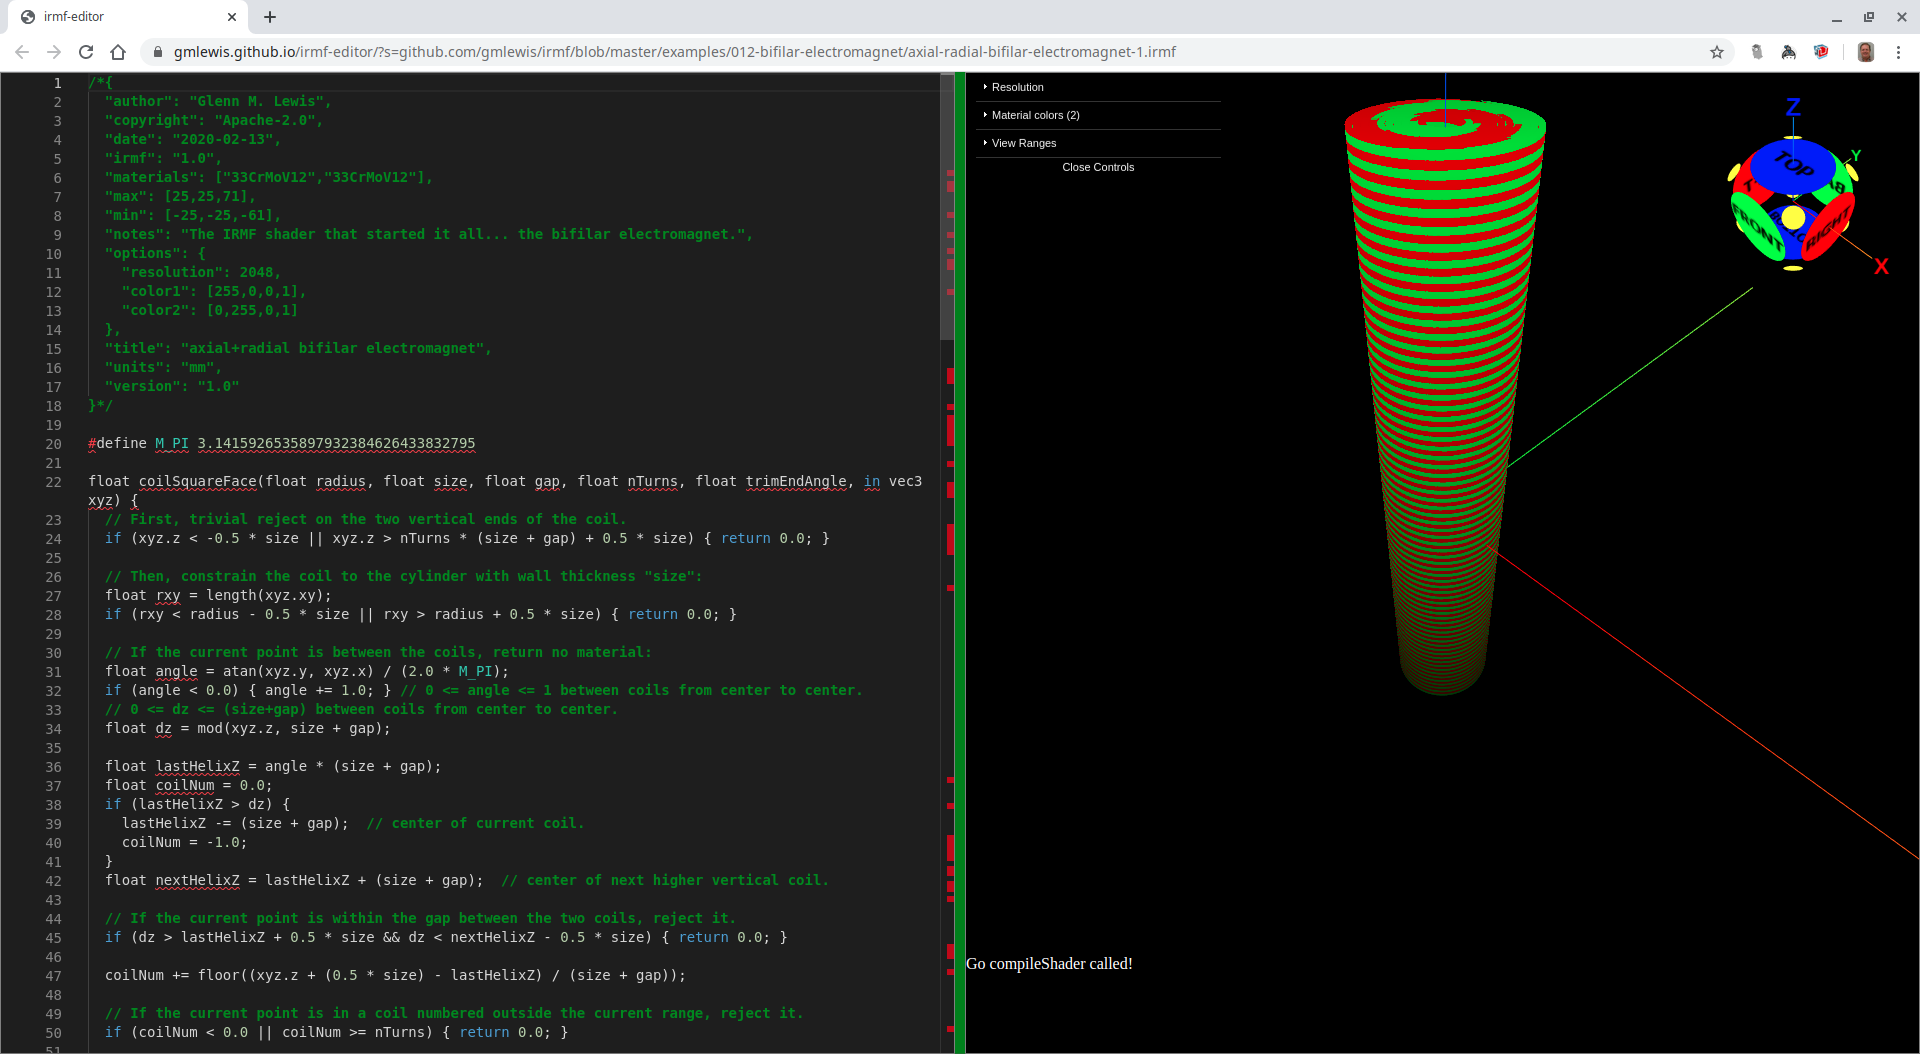
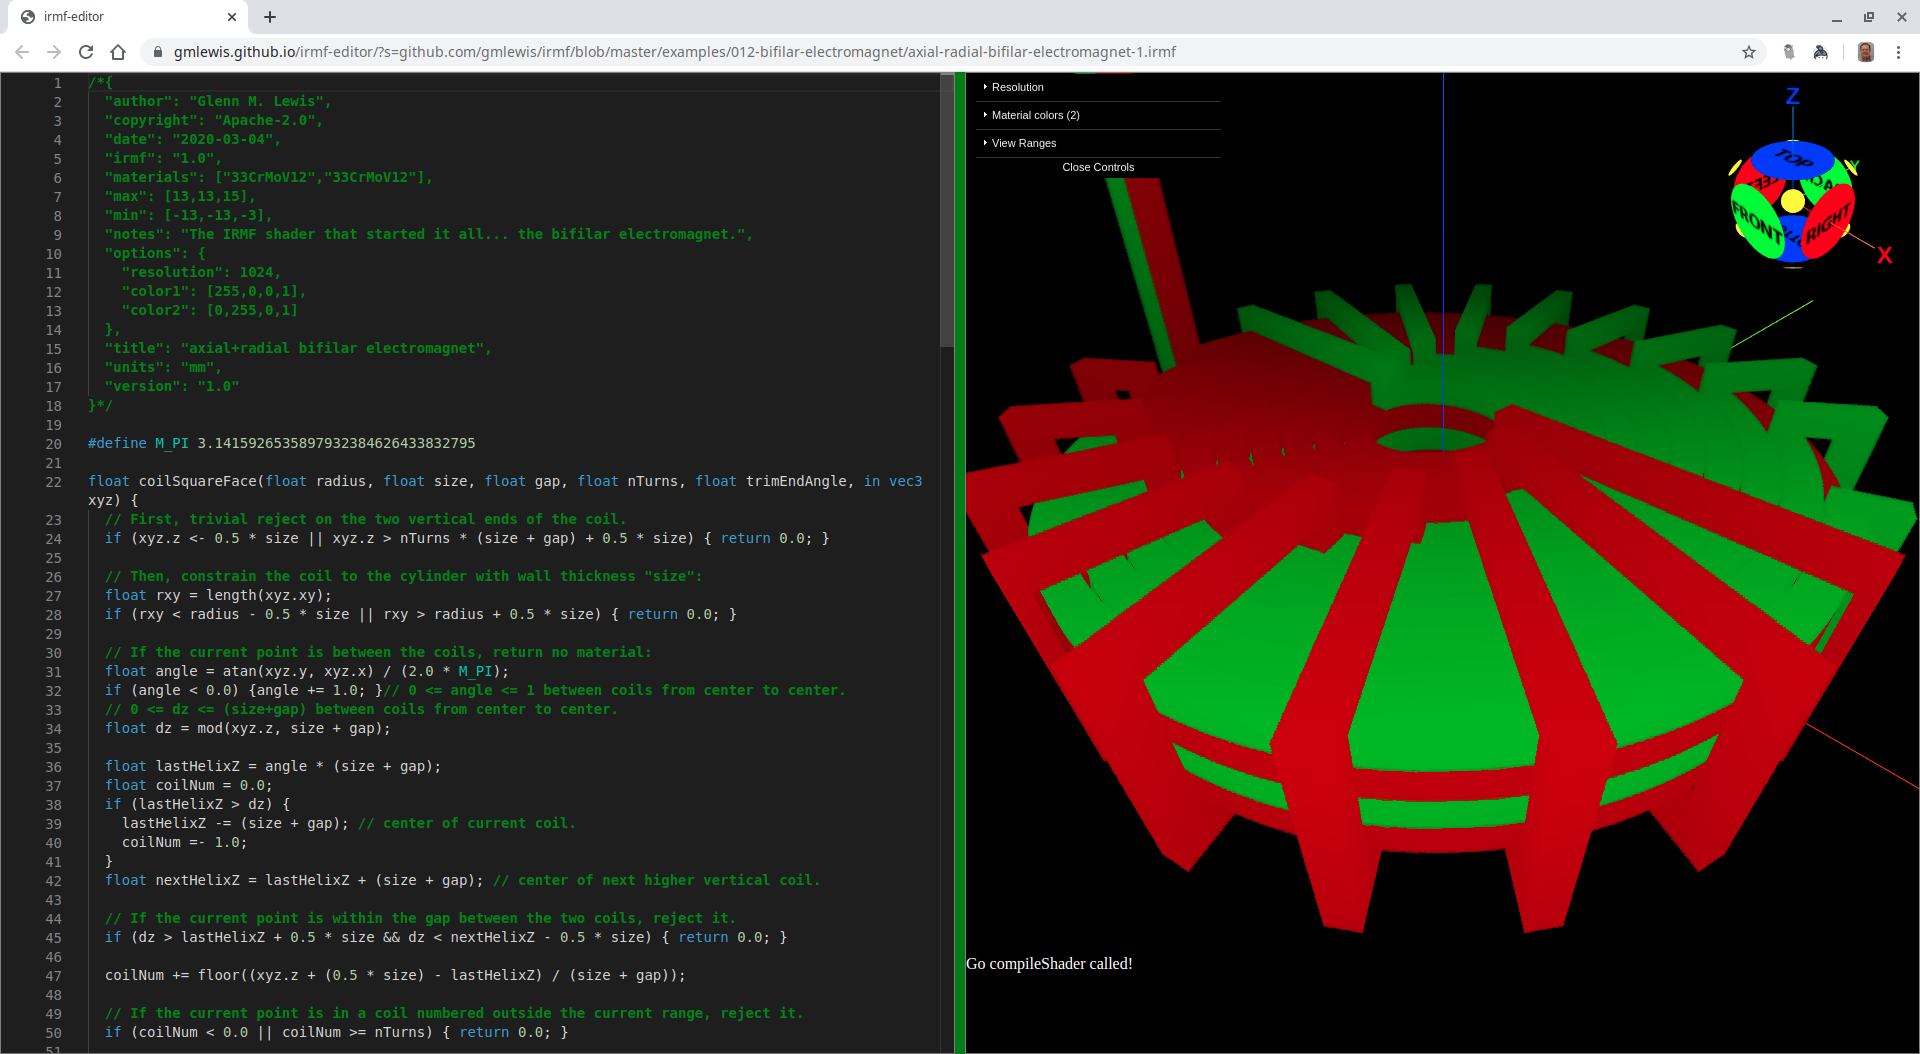
First complete axial+radial bifilar electromagnet

diff --git a/cmd/update-examples/main.go b/cmd/update-examples/main.go
@@ -137,7 +137,7 @@ var licenseText = `-------------------------------------------------------------
 
 # License
 
-Copyright 2020 Glenn M. Lewis. All Rights Reserved.
+Copyright 2019 Glenn M. Lewis. All Rights Reserved.
 
 Licensed under the Apache License, Version 2.0 (the "License");
 you may not use this file except in compliance with the License.

diff --git a/examples/012-bifilar-electromagnet/README.md b/examples/012-bifilar-electromagnet/README.md
@@ -214,21 +214,14 @@ the next pair of windings is completely rotated 180 degrees, then the
 capacitance between the coils will be in both the radial direction _and_ the
 axial direction!
 
-Here is the start of such a design. It is a work-in-progress and still needs
-wiring up at the endpoints.
-
 ![axial-radial-bifilar-electromagnet-1.png](axial-radial-bifilar-electromagnet-1.png)
-
-Here's a single rotation of 10 pairs of coils:
-
-![one revolution](axial-radial-bifilar-one-revolution.png)
 
 ```glsl
 /*{
   irmf: "1.0",
   materials: ["33CrMoV12","33CrMoV12"],
-  max: [25,25,71],
-  min: [-25,-25,-61],
+  max: [13,13,15],
+  min: [-13,-13,-3],
   units: "mm",
 }*/
 
@@ -236,7 +229,7 @@ Here's a single rotation of 10 pairs of coils:
 
 float coilSquareFace(float radius, float size, float gap, float nTurns, float trimEndAngle, in vec3 xyz) {
   // First, trivial reject on the two vertical ends of the coil.
-  if (xyz.z < -0.5 * size || xyz.z > nTurns * (size + gap) + 0.5 * size) { return 0.0; }
+  if (xyz.z <- 0.5 * size || xyz.z > nTurns * (size + gap) + 0.5 * size) { return 0.0; }
   
   // Then, constrain the coil to the cylinder with wall thickness "size":
   float rxy = length(xyz.xy);
@@ -244,154 +237,151 @@ float coilSquareFace(float radius, float size, float gap, float nTurns, float tr
   
   // If the current point is between the coils, return no material:
   float angle = atan(xyz.y, xyz.x) / (2.0 * M_PI);
-  if (angle < 0.0) { angle += 1.0; } // 0 <= angle <= 1 between coils from center to center.
+  if (angle < 0.0) {angle += 1.0; }// 0 <= angle <= 1 between coils from center to center.
   // 0 <= dz <= (size+gap) between coils from center to center.
   float dz = mod(xyz.z, size + gap);
   
   float lastHelixZ = angle * (size + gap);
   float coilNum = 0.0;
   if (lastHelixZ > dz) {
-    lastHelixZ -= (size + gap);  // center of current coil.
-    coilNum = -1.0;
+    lastHelixZ -= (size + gap); // center of current coil.
+    coilNum =- 1.0;
   }
-  float nextHelixZ = lastHelixZ + (size + gap);  // center of next higher vertical coil.
+  float nextHelixZ = lastHelixZ + (size + gap); // center of next higher vertical coil.
   
   // If the current point is within the gap between the two coils, reject it.
   if (dz > lastHelixZ + 0.5 * size && dz < nextHelixZ - 0.5 * size) { return 0.0; }
   
   coilNum += floor((xyz.z + (0.5 * size) - lastHelixZ) / (size + gap));
-
+  
   // If the current point is in a coil numbered outside the current range, reject it.
   if (coilNum < 0.0 || coilNum >= nTurns) { return 0.0; }
-
+  
   // TODO: Incorporate the trimEndAngle.
-
+  
   return 1.0;
 }
 
-float box(vec3 start,vec3 end,float size,in vec3 xyz){
-  vec3 ll=min(start,end)-vec3(.5*size);
-  vec3 ur=max(start,end)+vec3(.5*size);
-  if(any(lessThan(xyz,ll))||any(greaterThan(xyz,ur))){return 0.;}
-  return 1.;
+float box(vec3 start, vec3 end, float size, in vec3 xyz) {
+  vec3 ll = min(start, end) - vec3(0.5 * size);
+  vec3 ur = max(start, end) + vec3(0.5 * size);
+  if (any(lessThan(xyz, ll))|| any(greaterThan(xyz, ur))) { return 0.0; }
+  return 1.0;
 }
 
-mat3 rotAxis(vec3 axis,float a){
+mat3 rotAxis(vec3 axis, float a) {
   // This is from: http://www.neilmendoza.com/glsl-rotation-about-an-arbitrary-axis/
-  float s=sin(a);
-  float c=cos(a);
-  float oc=1.-c;
-  vec3 as=axis*s;
-  mat3 p=mat3(axis.x*axis,axis.y*axis,axis.z*axis);
-  mat3 q=mat3(c,-as.z,as.y,as.z,c,-as.x,-as.y,as.x,c);
-  return p*oc+q;
+  float s = sin(a);
+  float c = cos(a);
+  float oc = 1.0 - c;
+  vec3 as = axis * s;
+  mat3 p = mat3(axis.x * axis, axis.y * axis, axis.z * axis);
+  mat3 q = mat3(c, - as.z, as.y, as.z, c, - as.x, - as.y, as.x, c);
+  return p * oc + q;
 }
 
-mat4 rotZ(float angle){
-  return mat4(rotAxis(vec3(0,0,1),angle));
+mat4 rotZ(float angle) {
+  return mat4(rotAxis(vec3(0, 0, 1), angle));
 }
 
-float wire(vec3 start,vec3 end,float size,in vec3 xyz){
-  vec3 v=end-start;
-  float angle=dot(v,vec3(1,0,0));
-  xyz-=start;
-  xyz=(vec4(xyz,1)*rotZ(angle)).xyz;
-  return box(vec3(0),vec3(length(v),0,0),size,xyz);
+float wire(vec3 start, vec3 end, float size, in vec3 xyz) {
+  vec3 v = end - start;
+  float angle = dot(v, vec3(1, 0, 0));
+  xyz -= start;
+  xyz = (vec4(xyz, 1) * rotZ(angle)).xyz;
+  return box(vec3(0), vec3(length(v), 0, 0), size, xyz);
 }
 
-float coilPlusConnectorWires(int coilNum,int numCoils,float inc,float innerRadius,float connectorRadius,float size,float gap,float nTurns,in vec3 xyz){
-  float radiusOffset=float(coilNum-1);
-  mat4 xfm=mat4(1)*rotZ(radiusOffset*inc);
-  float coilRadius=radiusOffset+innerRadius;
-  float trimEndAngle=2.*inc;
-  if(coilNum==numCoils){
-    trimEndAngle=.5*inc;// Special case to access the exit wire.
-  }else if(coilNum==numCoils-1){
-    trimEndAngle=3.*inc;
-  }
+float coilPlusConnectorWires(int wireNum, int coilNum, int numCoils, float inc, float innerRadius, float connectorRadius, float size, float gap, float nTurns, in vec3 xyz) {
+  float radiusOffset = float(coilNum - 1);
+  mat4 xfm = mat4(1) * rotZ(radiusOffset * inc);
+  float coilRadius = radiusOffset + innerRadius;
+  float trimEndAngle = 2.0 * inc;
+  //   if (coilNum == numCoils) {
+    //     trimEndAngle = 0.5 * inc; // Special case to access the exit wire.
+  //   } else if (coilNum == numCoils - 1) {
+    //     trimEndAngle = 3.0 * inc;
+  //   }
   xyz = (vec4(xyz, 1.0) * xfm).xyz;
-  float coil=coilSquareFace(coilRadius,size,gap,nTurns,trimEndAngle,xyz);
-    
-  //   float bz = -(size + gap);
-  //   float tz = nTurns * (size + gap);
-  //   float tzp1 = (nTurns + 1.0) * (size + gap);
+  float coil = coilSquareFace(coilRadius, size, gap, nTurns, trimEndAngle, xyz);
   
-  //   coil += box(vec3(coilRadius, 0.0, 0.0), vec3(coilRadius, 0.0, bz), size, xyz);
-  //   coil += box(vec3(coilRadius, 0.0, bz), vec3(connectorRadius, 0.0, bz), size, xyz);
-  //   coil += box(vec3(connectorRadius, 0.0, bz), vec3(connectorRadius, 0.0, tzp1), size, xyz);
+  float tz = nTurns * (size + gap);
+  float zexit = (nTurns + 10.0) * (size + gap);
   
-  //   float zexit = (nTurns + 10.0) * (size + gap);
-  //   if (coilNum >= 3) { // Connect the start of this coil to the end of two coils prior.
-    //     float lastCoilRadius = radiusOffset - 2.0 + innerRadius;
-    //     coil += box(vec3(lastCoilRadius, 0.0, tzp1), vec3(connectorRadius, 0.0, tzp1), size, xyz);
-    //     coil += box(vec3(lastCoilRadius, 0.0, tz), vec3(lastCoilRadius, 0.0, tzp1), size, xyz);
-  //   } else if (coilNum == 2) { // Connect the start of 2 to the end of the last odd coil.
-    //     float endOddRadius = float(numCoils - 2) + innerRadius;
-    //     coil += box(vec3(endOddRadius, 0.0, tzp1), vec3(connectorRadius, 0.0, tzp1), size, xyz);
-    //     coil += box(vec3(endOddRadius, 0.0, tz), vec3(endOddRadius, 0.0, tzp1), size, xyz);
-  //   } else if (coilNum == 1) { // Bring out the exit wires.
-    //     // Start of coil1:
-    //     coil += box(vec3(connectorRadius, 0.0, tz), vec3(connectorRadius, 0.0, zexit), size, xyz);
-  //   }
+  if (coilNum == numCoils) {
+    // Special case to access the exit wires.
+    if (wireNum == 1) {
+      coil += box(vec3(coilRadius, 0, tz), vec3(coilRadius, 0, zexit), size, xyz);
+    } else {
+      coil += box(vec3(coilRadius, 0, tz), vec3(connectorRadius, 0, tz), size, xyz);
+      coil += box(vec3(connectorRadius, 0, - size), vec3(connectorRadius, 0, tz), size, xyz);
+      coil += box(vec3(connectorRadius, 0, - size), vec3(innerRadius, 0, - size), size, xyz);
+      coil += box(vec3(innerRadius, 0, - size), vec3(innerRadius, 0, 0), size, xyz);
+      // Now the other exit wire
+      coil += box(vec3(-innerRadius, 0, - size), vec3(-innerRadius, 0, 0), size, xyz);
+      coil += box(vec3(-connectorRadius, 0, - size), vec3(-innerRadius, 0, - size), size, xyz);
+      coil += box(vec3(-connectorRadius, 0, - size), vec3(-connectorRadius, 0, zexit), size, xyz);
+    }
+  } else {
+    coil += box(vec3(coilRadius, 0, tz), vec3(coilRadius, 0, tz + size), size, xyz);
+    coil += box(vec3(coilRadius, 0, tz + size), vec3(connectorRadius, 0, tz + size), size, xyz);
+    coil += box(vec3(connectorRadius, 0, - size), vec3(connectorRadius, 0, tz + size), size, xyz);
+    coilRadius += gap;
+    coil += box(vec3(coilRadius, 0, - size), vec3(connectorRadius, 0, - size), size, xyz);
+    coil += box(vec3(coilRadius, 0, - size), vec3(coilRadius, 0, 0), size, xyz);
+  }
   
-  //   if (coilNum == numCoils) { // Special case to access the exit wire.
-    //     // End of coil 'numCoils':
-    //     xfm = mat4(1) * rotZ(0.5 * inc);
-    //     xyz = (vec4(xyz, 1.0) * xfm).xyz;
-    //     coil += box(vec3(connectorRadius - (size + gap), 0.0, tz), vec3(connectorRadius - (size + gap), 0.0, zexit), size, xyz);
-  //   }
-  
-  return coil;
+  return clamp(coil, 0.0, 1.0);
 }
 
-float cylinder(float radius,float height,in vec3 xyz){
+float cylinder(float radius, float height, in vec3 xyz) {
   // First, trivial reject on the two ends of the cylinder.
-  if(xyz.z<0.||xyz.z>height){return 0.;}
+  if (xyz.z < 0.0 || xyz.z > height) { return 0.0; }
   
   // Then, constrain radius of the cylinder:
-  float rxy=length(xyz.xy);
-  if(rxy>radius){return 0.;}
+  float rxy = length(xyz.xy);
+  if (rxy > radius) { return 0.0; }
   
-  return 1.;
+  return 1.0;
 }
 
-vec3 arBifilarElectromagnet(int numPairs,float innerRadius,float size,float gap,int numTurns,in vec3 xyz){
-  float nTurns=float(numTurns);
-  float inc=2.*M_PI/float(numPairs);
-  float connectorRadius=innerRadius+float(numPairs)*(size+gap);
+vec3 arBifilarElectromagnet(int numPairs, float innerRadius, float size, float gap, int numTurns, in vec3 xyz) {
+  float nTurns = float(numTurns);
+  float inc = M_PI / float(numPairs);
+  float connectorRadius = innerRadius + float(numPairs) * (size + gap);
   
-  float metal1=0.;
-  float metal2=0.;
+  float metal1 = 0.0;
+  float metal2 = 0.0;
   
-  mat4 xfm=mat4(1)*rotZ(M_PI);
-  vec3 xyz180Z=(vec4(xyz,1.)*xfm).xyz;
+  mat4 xfm = mat4(1) * rotZ(M_PI);
+  vec3 xyz180Z = (vec4(xyz, 1.0) * xfm).xyz;
   
-  for(int i=1;i<=numPairs;i++){
-    metal1+=coilPlusConnectorWires(i,numPairs,inc,innerRadius,connectorRadius,size,size+2.*gap,nTurns,xyz);
-    metal2+=coilPlusConnectorWires(i,numPairs,inc,innerRadius,connectorRadius,size,size+2.*gap,nTurns,xyz180Z);
+  for(int i = 1; i <= numPairs; i ++ ) {
+    metal1 += coilPlusConnectorWires(1, i, numPairs, inc, innerRadius, connectorRadius, size, size + 2.0 * gap, nTurns, xyz);
+    metal2 += coilPlusConnectorWires(2, i, numPairs, inc, innerRadius, connectorRadius, size, size + 2.0 * gap, nTurns, xyz180Z);
   }
   metal1 = clamp(metal1, 0.0, 1.0);
-  metal2 = clamp(metal2, 0.0, 1.0);
+  metal2 = clamp(metal2 - metal1, 0.0, 1.0); // Don't double the metals on overlap.
   
-  float dielectric=0.;
-  float dielectricRadius=2.*float(numPairs)*(size+gap)+innerRadius+gap;
-  float dielectricHeight=(nTurns+4.)*(size+gap);
-  dielectric+=cylinder(dielectricRadius,dielectricHeight,xyz+vec3(0,0,2));
+  float dielectric = 0.0;
+  float dielectricRadius = 2.0 * float(numPairs) * (size + gap) + innerRadius + gap;
+  float dielectricHeight = (nTurns + 4.0) * (size + gap);
+  dielectric += cylinder(dielectricRadius, dielectricHeight, xyz + vec3(0, 0, 2));
   
-  float spindleRadius=2.*float(numPairs+1)*(size+gap)+innerRadius;
-  dielectric+=cylinder(spindleRadius,2.*(size+gap),xyz+vec3(0,0,2));
-  dielectric+=cylinder(spindleRadius,2.*(size+gap),xyz-vec3(0,0,dielectricHeight-4.));
+  float spindleRadius = 2.0 * float(numPairs + 1) * (size + gap) + innerRadius;
+  dielectric += cylinder(spindleRadius, 2.0 * (size + gap), xyz + vec3(0, 0, 2));
+  dielectric += cylinder(spindleRadius, 2.0 * (size + gap), xyz - vec3(0, 0, dielectricHeight - 4.0));
   dielectric = clamp(dielectric, 0.0, 1.0);
   // This next step is important... we don't want any dielectric material wherever
   // the metal is located, so we just subtract the metal out of the dielectric.
-  dielectric-=clamp(metal1+metal2, 0.0, 1.0);
+  dielectric -= clamp(metal1 + metal2, 0.0, 1.0);
   
   return vec3(metal1, metal2, dielectric);
 }
 
-void mainModel4(out vec4 materials,in vec3 xyz){
-  xyz.z+=60.;
-  materials.xyz=arBifilarElectromagnet(10,3.,.85,.15,122,xyz);
+void mainModel4(out vec4 materials, in vec3 xyz) {
+  // xyz.z+=60.;
+  materials.xyz = arBifilarElectromagnet(10, 3.0, 0.85, 0.15, 2, xyz);
 }
 ```
 
